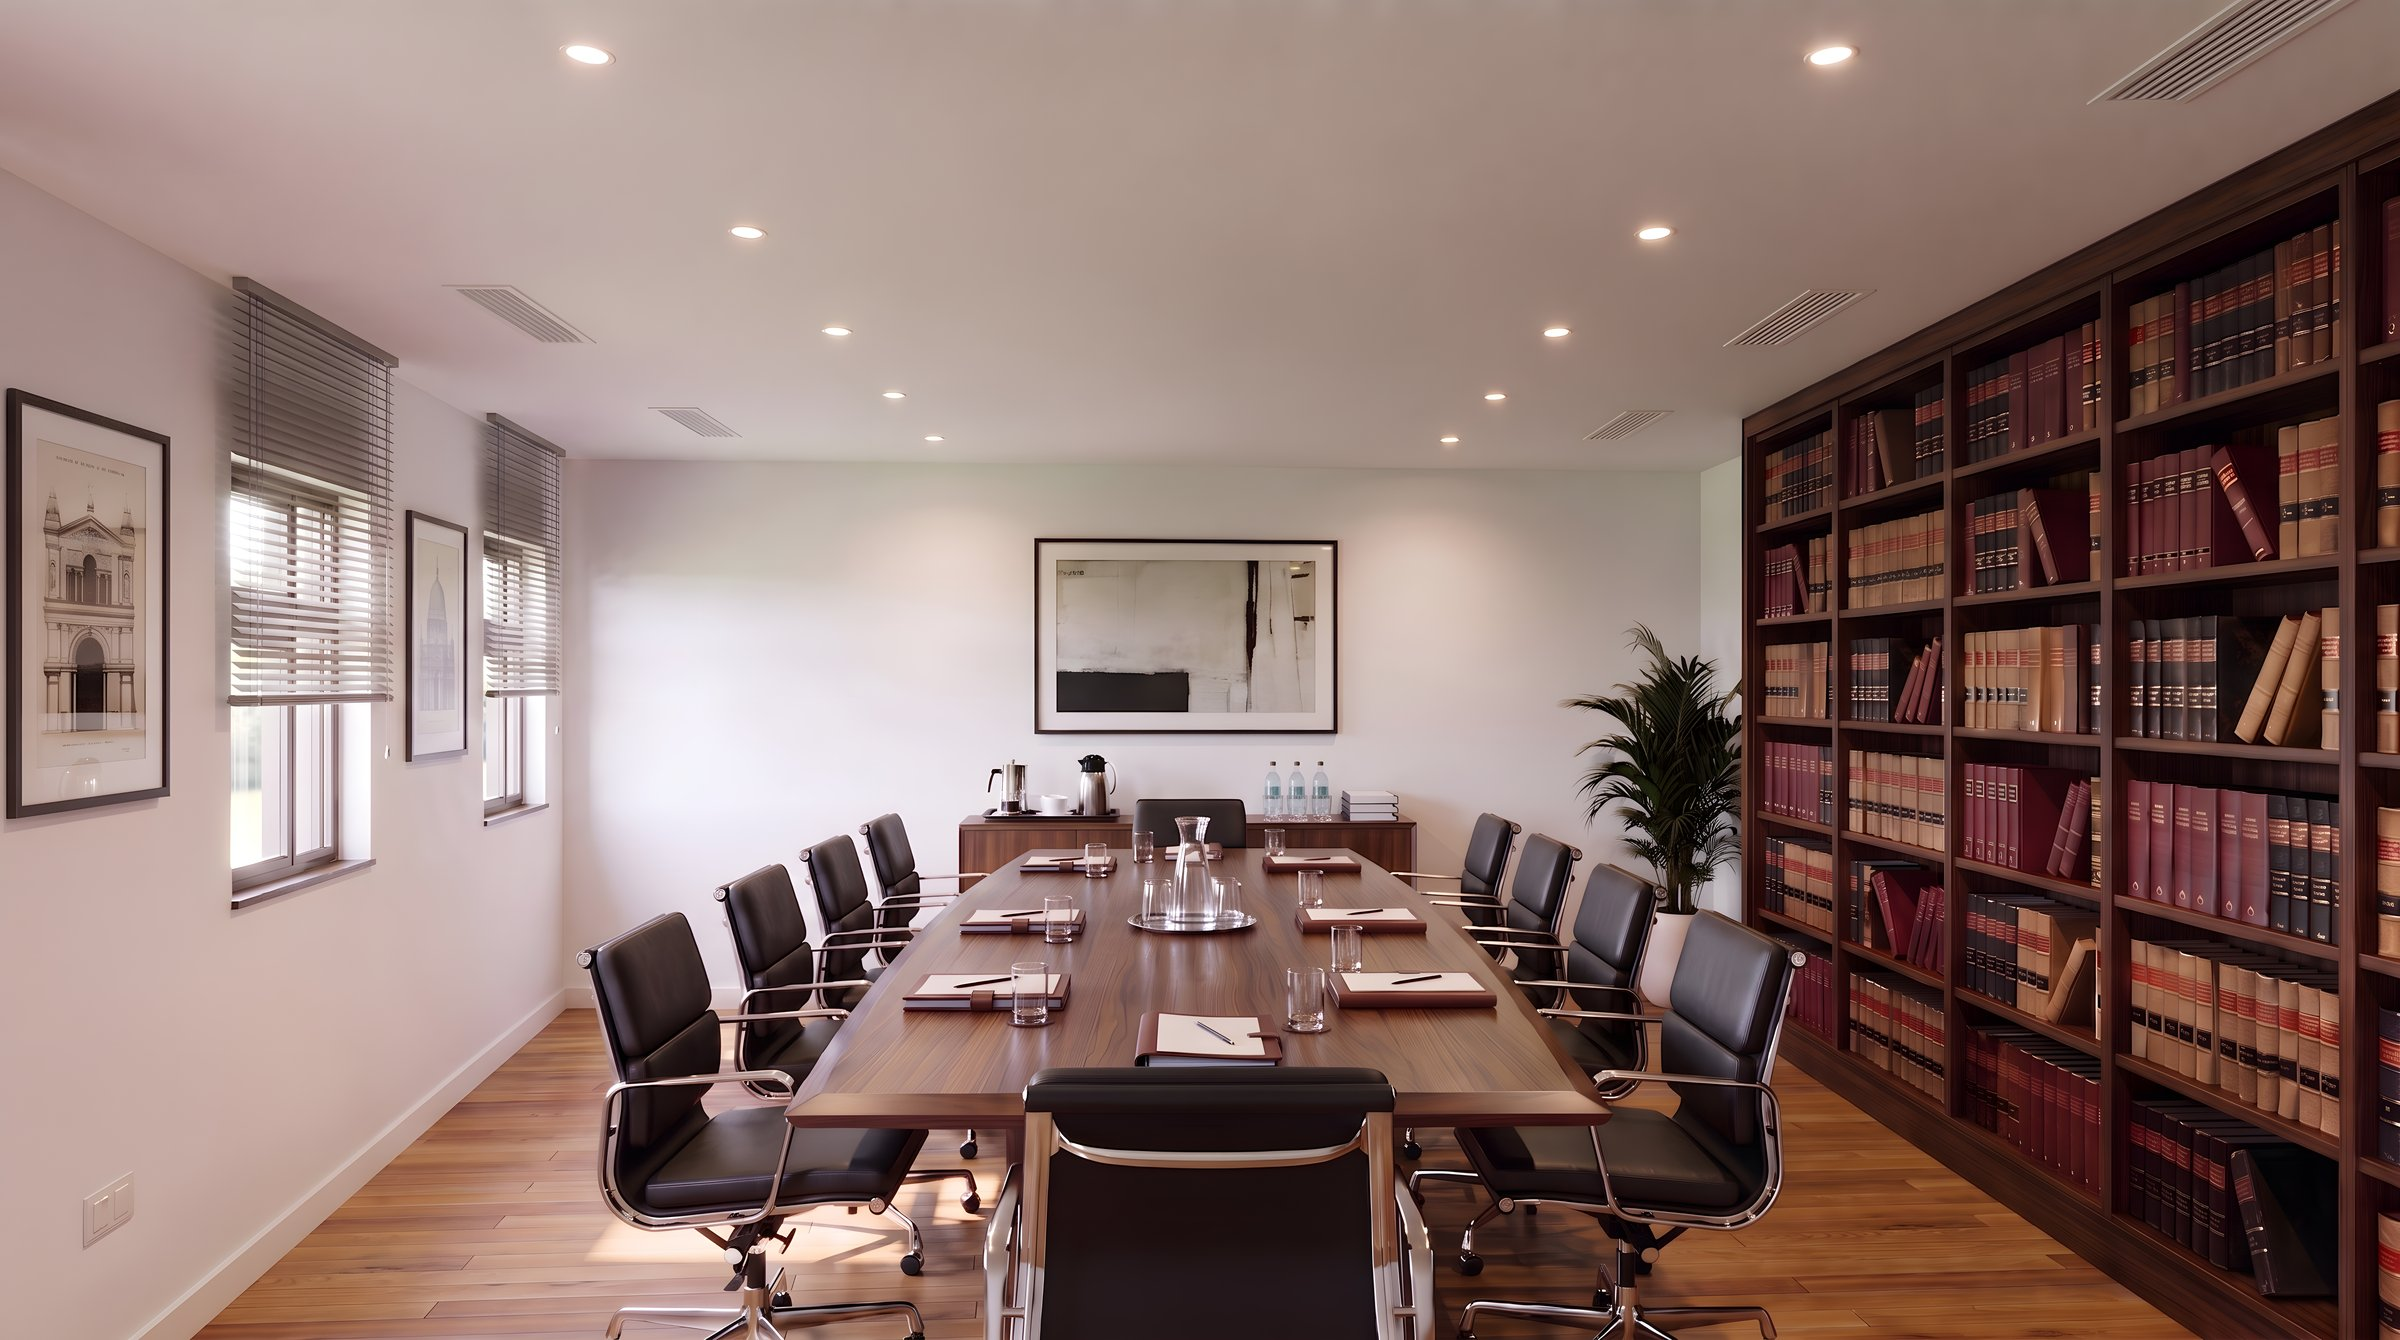
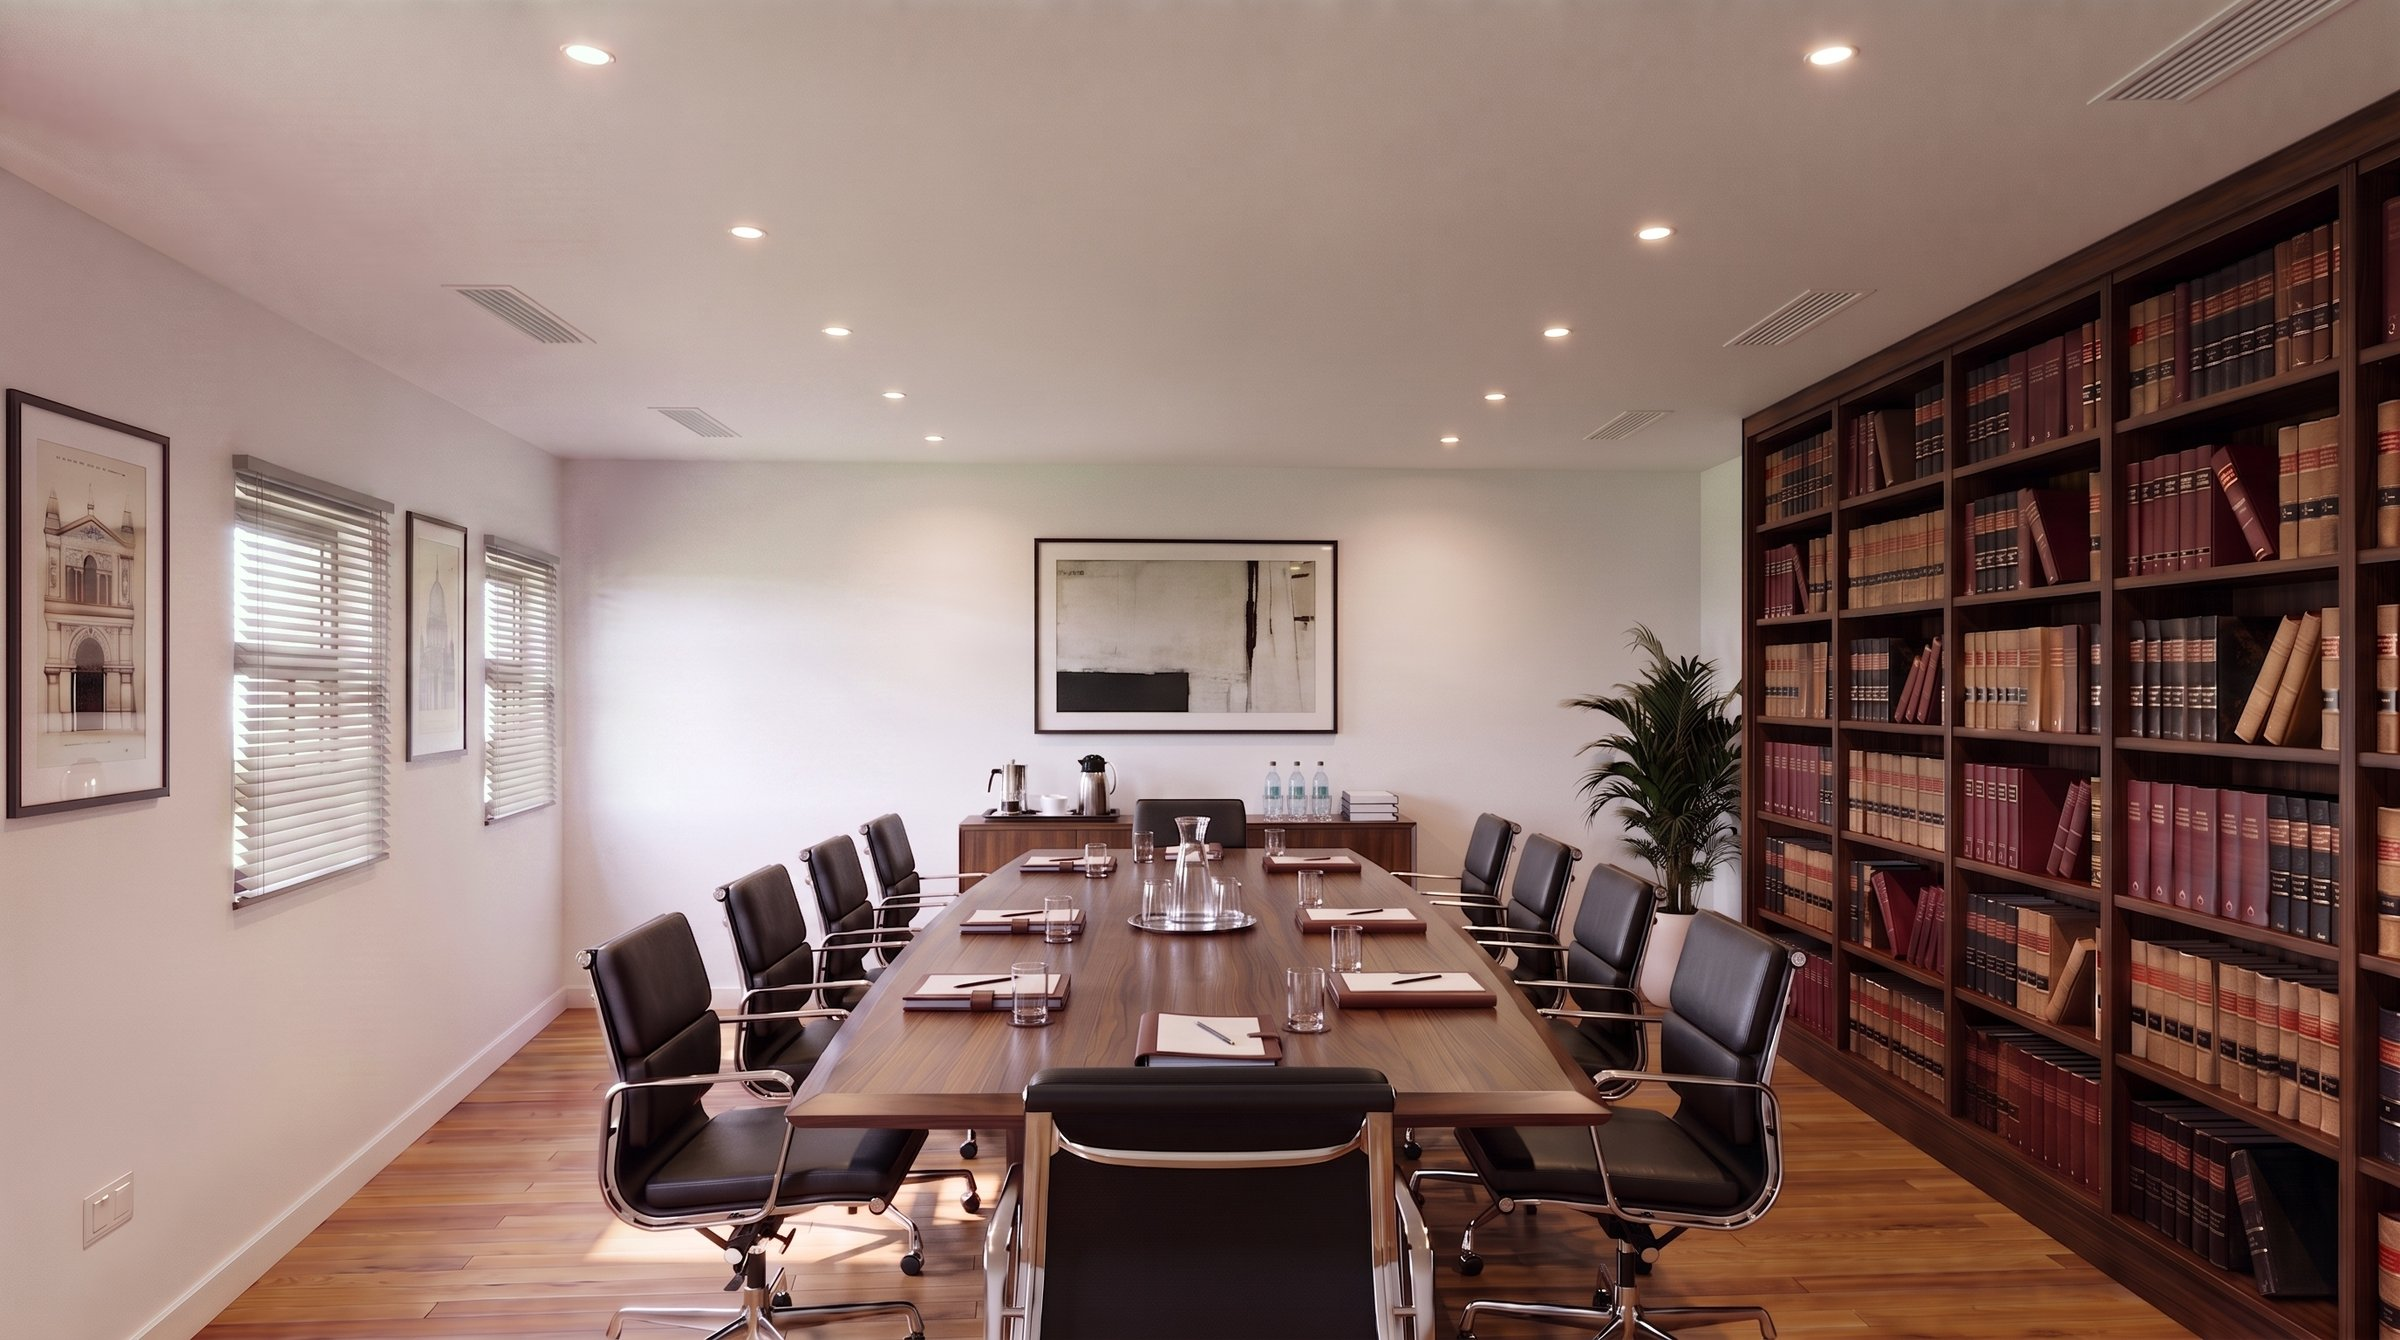
content(schultz): rewrite the case study around the client brief, fix the boardroom blinds
The page led with process — a SketchUp shell, five directed passes, cameras —
and never said what the work changed for anyone. Rewritten from Sam's account:
a 2017 refresh for an attorneys' practice that asked only for paint, repairs,
lighting and a general clean-up, and got plans and visuals so the in-house
trades knew what to do and where. Applied to EN and NL together.

Both boardroom renders had their blinds hung at the old curtain-track height,
near the ceiling and well above the window heads. Refitted onto the window
heads with straight, even slats; Toward Reception also recoloured to match and
its timber skirting painted white. The library, table and reception are
composited back from the approved v5 so nothing else drifted.

diff --git a/src/data/content.nl.ts b/src/data/content.nl.ts
@@ -243,19 +243,19 @@ export const projectsNl: Record<string, ProjectCopy> = {
     facts: [
       {
         k: 'Rol',
-        v: 'Het kantoormodel herbouwd tot een compleet casco, de camera’s en art direction bepaald en elke geregisseerde pass tot een fotografische afwerking gebracht',
+        v: 'De kantoren opgemeten, de renovatieplannen getekend en de interieurvisuals gemaakt waar onze eigen vaklieden en de klant allebei naar werkten',
       },
       {
         k: 'Opgeleverd',
-        v: 'Fotorealistische interieurs — bestuurskamer, directiekantoor en gang',
+        v: 'Renovatieplannen · interieurvisuals — bestuurskamer, directiekantoor en gang',
       },
     ],
     description:
-      'Een gevestigd advocatenkantoor opnieuw gevisualiseerd — een kaal SketchUp-casco gebracht tot vier afgewerkte interieurs via vijf geregisseerde passes per aanzicht.',
+      'Een kantooropfrissing uit 2017 voor een advocatenkantoor — uitgetekend en gevisualiseerd zodat de vaklieden precies wisten wat er moest gebeuren, en waar.',
     brief:
-      'Het kantoor had al een model, maar het was een casco: kale muren en geen plafonds. De bestaande renders lieten zien wat er gebeurt als je een casco te snel doorduwt — boekruggen die zich herhalen als één getegelde textuur, vlak licht, geometrie die nooit in het model zat. Vier ruimtes moesten fotografisch worden zonder het gebouw te verzinnen.',
+      'Schultz Mmuoe Inc is een advocatenkantoor waarvan de kantoren zo’n vijf jaar niet waren aangepakt. Wat ze in 2017 vroegen was eenvoudig: alles opnieuw schilderen, schades herstellen, nieuwe verlichting, en een algehele opfrissing zodat het er weer professioneel uitzag. Ze vroegen niet om tekeningen, plannen of visuals — alleen om het werk.',
     approach:
-      'De ontbrekende vlakken zijn toegevoegd, de camera’s waterpas gezet en elk aanzicht door vijf geregisseerde passes gehaald — fotorealistische conversie, één plafondschema vastgehouden over alle vier de ruimtes, de werkelijke enkele kromming van de glaswand in de bestuurskamer, een aankleedpass met de eigen messing letters en dossiers van het kantoor, en als laatste de raambekleding. Elke pass is beoordeeld tegen een gebrekentabel opgesteld uit die originele renders, en opnieuw gedraaid tot hij slaagde.',
+      'Ik heb het toch uitgetekend. De renovatie werd uitgevoerd door onze eigen vaklieden, en zo’n klus loopt alleen soepel als iedereen naar hetzelfde beeld werkt — dus maakte ik plannen en visuals samen: de plannen die zeiden wat er moest gebeuren en waar, de visuals die lieten zien hoe elke ruimte er na afloop uit moest zien. De vaklieden bouwden daarnaar in plaats van naar een mondelinge briefing, en het kantoor kon een ruimte goedkeuren voordat er een muur geschilderd was. De beelden hier zijn die oorspronkelijke plannen en visuals uit 2017, opgewaardeerd naar de huidige standaard.',
   },
 
   'sa-business-coach': {

diff --git a/src/data/projects.ts b/src/data/projects.ts
@@ -391,19 +391,19 @@ export const projects: Project[] = [
     facts: [
       {
         k: 'Role',
-        v: 'Rebuilt the office model into a complete shell, set the cameras and art direction, and drove every directed pass to a photographic finish',
+        v: 'Surveyed the offices, drew the renovation plans, and produced the interior visuals our in-house trades and the client both worked from',
       },
       {
         k: 'Deliverables',
-        v: 'Photoreal interiors — boardroom, private office and corridor',
+        v: 'Renovation plans · interior visuals — boardroom, private office and corridor',
       },
     ],
     description:
-      'An established attorneys’ practice revisualised — a bare SketchUp shell taken to four finished interiors through five directed passes per view.',
+      'A 2017 office refresh for an attorneys’ practice — planned and visualised so the trades knew exactly what to do, and where.',
     brief:
-      'The practice already had a model, but it was a shell: bare walls and no ceilings. Its existing renders showed what happens when a shell is pushed too fast — book spines repeating as one tiled texture, flat light, geometry that was never in the model. Four rooms had to reach photographic without inventing the building.',
+      'Schultz Mmuoe Inc is an attorneys’ practice whose offices hadn’t been touched in about five years. What they asked for in 2017 was basic: repaint throughout, make good the damage, new lighting, and an overall brightening and clean-up so the place read as professional again. They didn’t ask for drawings, plans or visuals — just the work.',
     approach:
-      'The missing planes were added, the cameras set level, and every view driven through five directed passes — photoreal conversion, one ceiling scheme held across all four rooms, the true single curve of the boardroom’s glass wall, a dressing pass carrying the practice’s own brass lettering and case files, and window treatments last. Each pass was judged against a defect table built from those original renders, and re-run until it passed.',
+      'I drew it up anyway. The renovation was carried out by our own in-house trades, and a job like that only runs cleanly when everyone is working to the same picture — so I produced plans and visuals together: the plans saying what had to happen and where, the visuals showing what each room should look like once it was done. The trades built from those instead of from a verbal brief, and the practice could sign off a room before a wall was painted. The images here are those original 2017 plans and visuals brought up to current standard.',
   },
   {
     slug: 'sa-business-coach',
